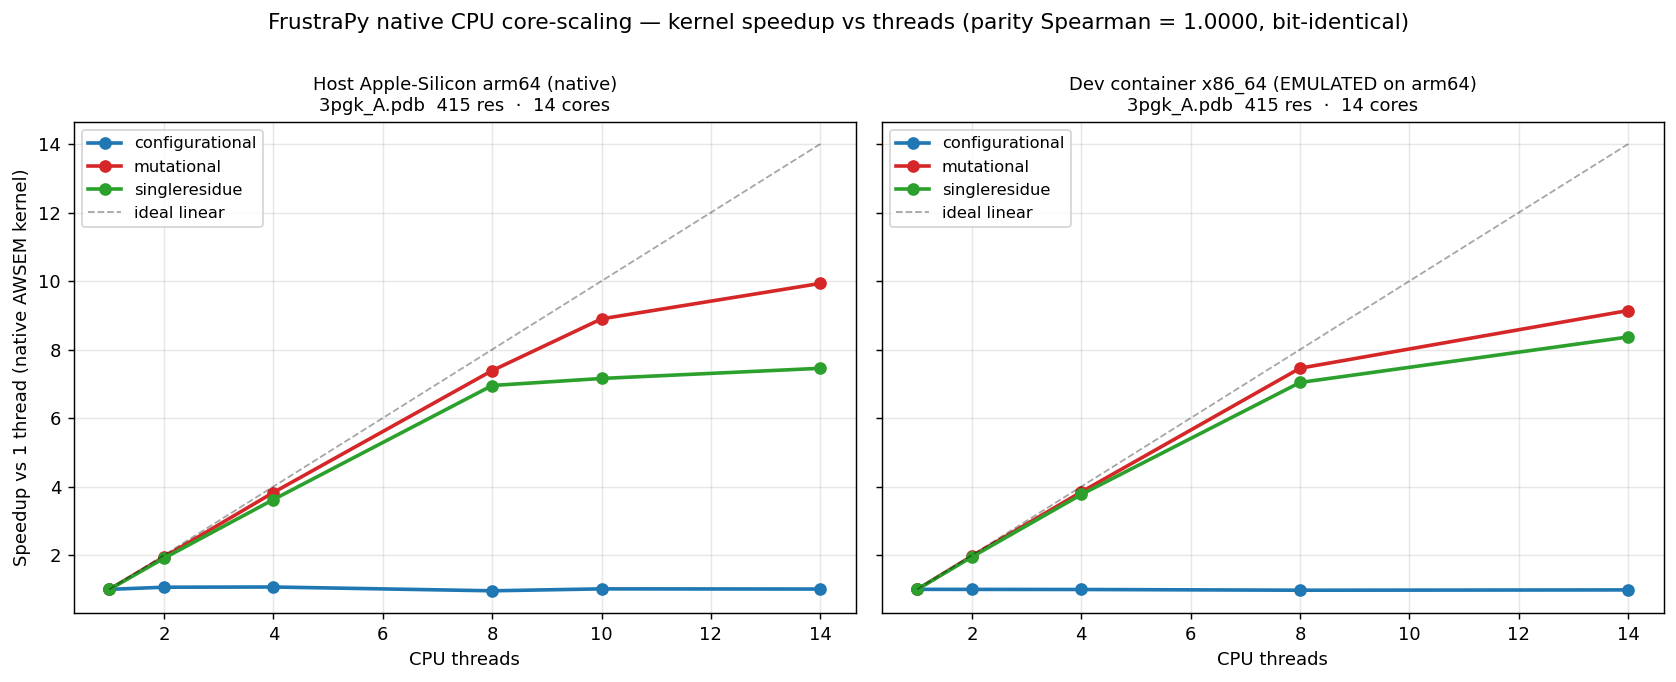
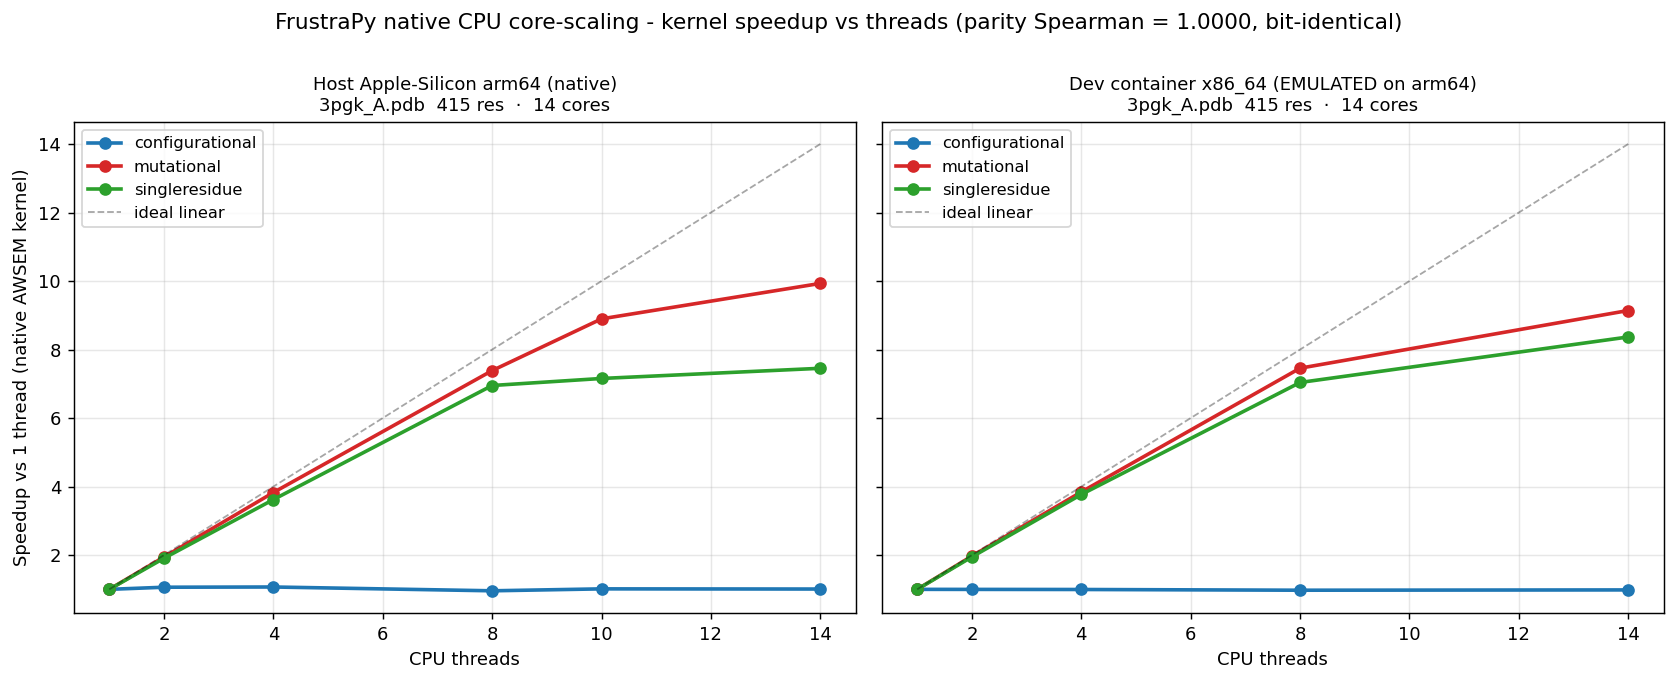
Remove em dashes from benchmark figure titles

Changed region(s): [[0.1551, 0.0, 0.8377, 0.0616]]

diff --git a/native/bench/plot_matrix.py b/native/bench/plot_matrix.py
@@ -1,7 +1,7 @@
 """Plot the cross-backend / core-scaling benchmark from bench_*.json.
 
 Two per-machine, ratio-based figures (host arm64 native vs container x86_64 emulated are
-NEVER merged on one wall-time axis — emulation inflates absolute container times; only
+NEVER merged on one wall-time axis - emulation inflates absolute container times; only
 within-machine ratios are valid). Parity Spearman annotated where measured.
 """
 import argparse, json, os
@@ -44,7 +44,7 @@ def fig_scaling(host, cont, out):
         ax.set_xlabel("CPU threads"); ax.set_title(title, fontsize=10)
         ax.grid(True, alpha=0.3); ax.legend(fontsize=9)
     axes[0].set_ylabel("Speedup vs 1 thread (native AWSEM kernel)")
-    fig.suptitle("FrustraPy native CPU core-scaling — kernel speedup vs threads (parity Spearman = 1.0000, bit-identical)",
+    fig.suptitle("FrustraPy native CPU core-scaling - kernel speedup vs threads (parity Spearman = 1.0000, bit-identical)",
                  fontsize=12, y=1.0)
     fig.tight_layout()
     fig.savefig(out, dpi=130, bbox_inches="tight")
@@ -80,7 +80,7 @@ def fig_backends(cont, out):
         ax.text(i + w, p, f"{p:.2f}s\n(x{t})", ha="center", va="bottom", fontsize=8)
     ax.set_xticks(list(x)); ax.set_xticklabels(labels)
     ax.set_ylabel("End-to-end wall time (s)")
-    ax.set_title("Backend comparison, same machine — dev container x86_64 EMULATED\n"
+    ax.set_title("Backend comparison, same machine - dev container x86_64 EMULATED\n"
                  f"{cont['meta']['pdb']} {cont['meta']['n_ca']} res · all FrstIndex parity Spearman = 1.0000 · "
                  "absolute times emulation-inflated (ratios valid, representative lammps timing needs native x86_64 cluster)",
                  fontsize=10)
@@ -111,7 +111,7 @@ def fig_metal(metal_recs, out):
         ax.text(i + w, met[i], f"{met[i]:.1f}ms\n{sv:.0f}x vs x1\n{sv14:.1f}x vs x14", ha="center", va="bottom", fontsize=7.5)
     ax.set_yscale("log"); ax.set_xticks(list(x)); ax.set_xticklabels(modes)
     ax.set_ylabel("AWSEM kernel wall time (ms, log scale)")
-    ax.set_title("Backend kernel time on host Apple-Silicon arm64 (SAME machine) — CPU vs Metal GPU\n"
+    ax.set_title("Backend kernel time on host Apple-Silicon arm64 (SAME machine) - CPU vs Metal GPU\n"
                  "3pgk_A 415 res · Metal–CPU FrstIndex parity Spearman = 1.00000 (max|Δ| ~1e-6, f32) · "
                  "configurational is GPU-overhead-bound (light work)", fontsize=10)
     ax.grid(True, axis="y", alpha=0.3, which="both"); ax.legend()
